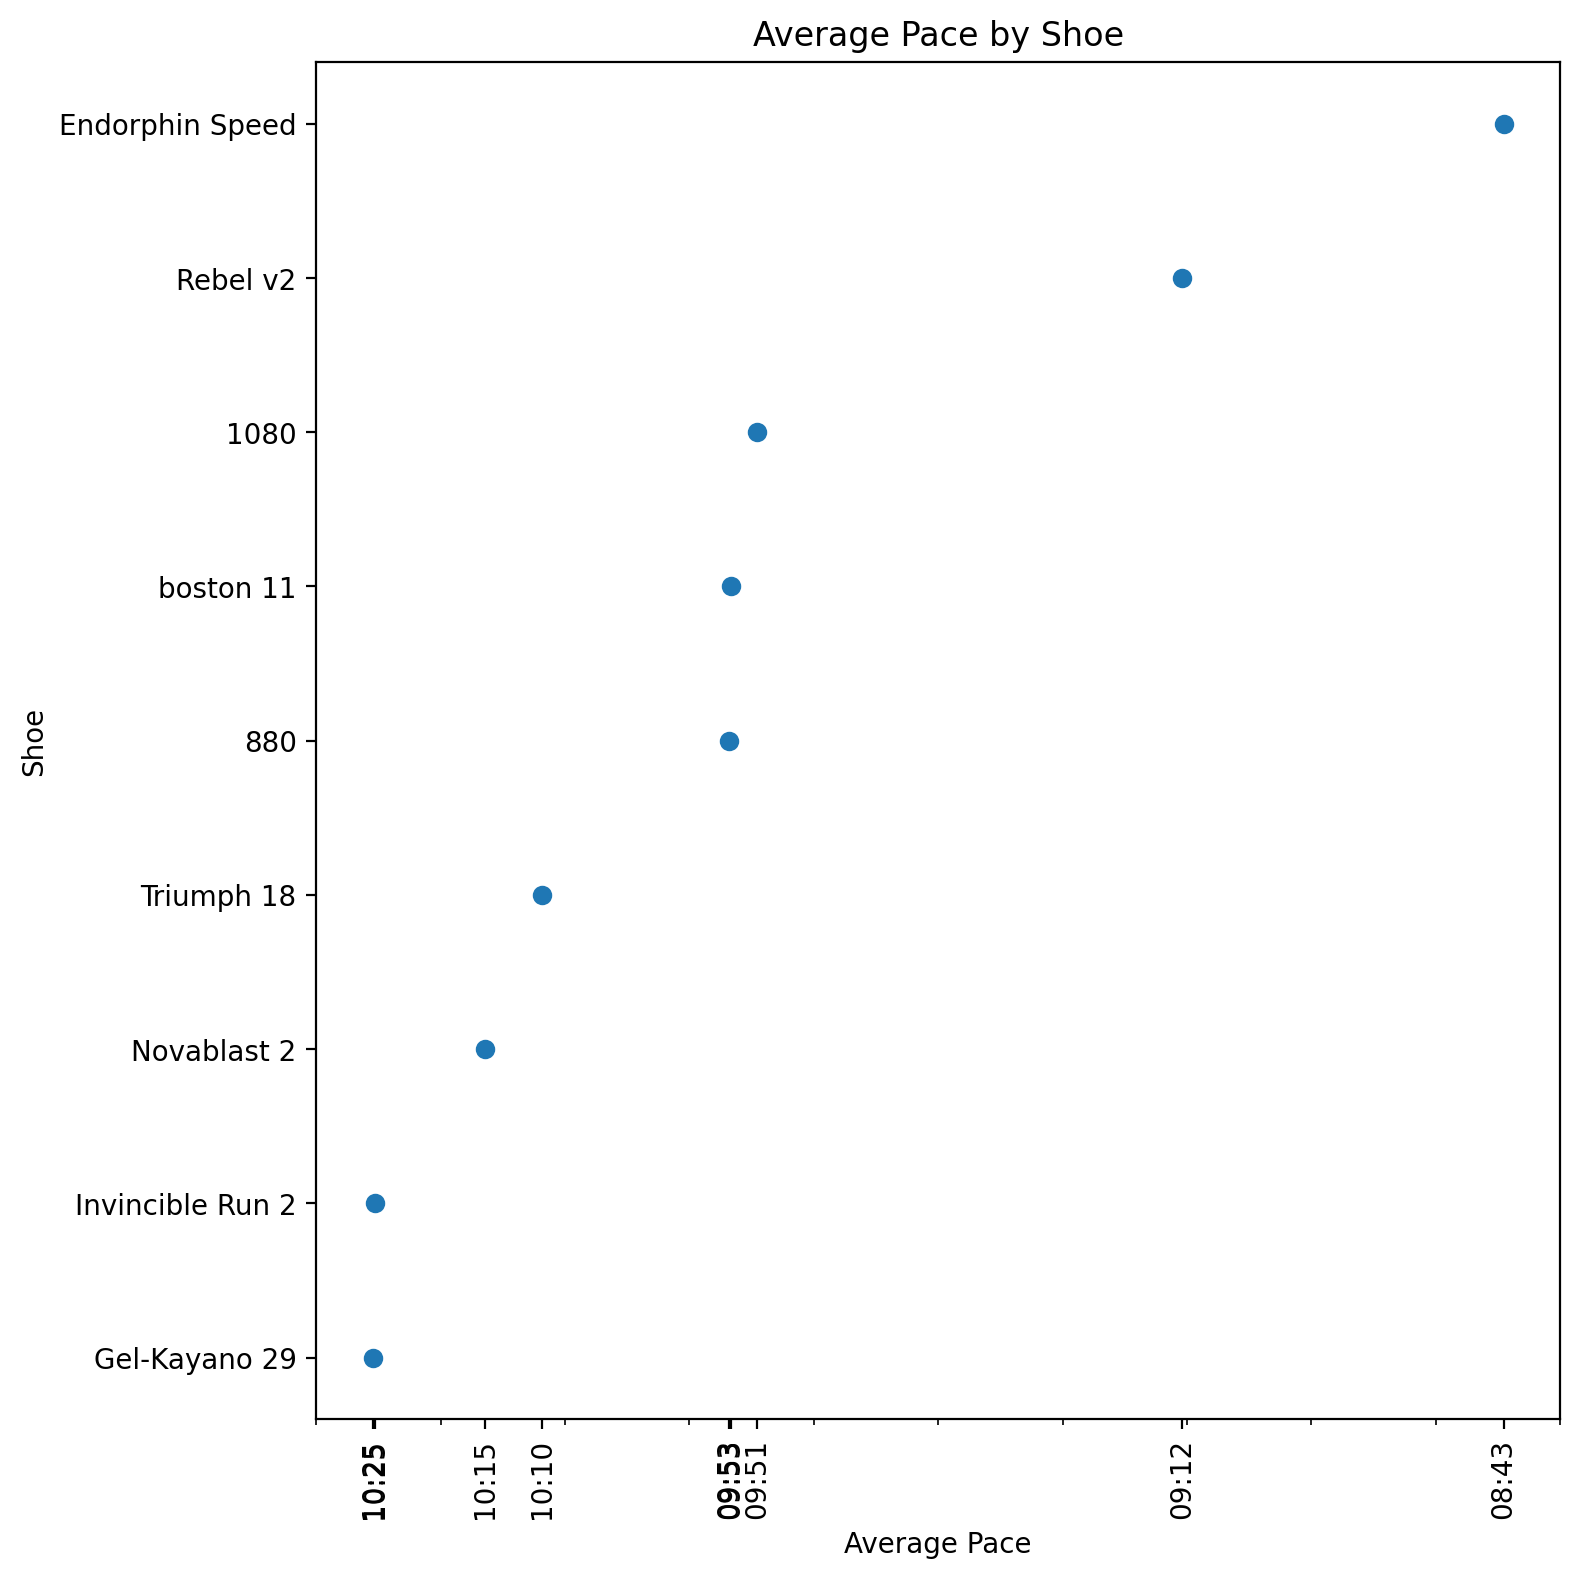
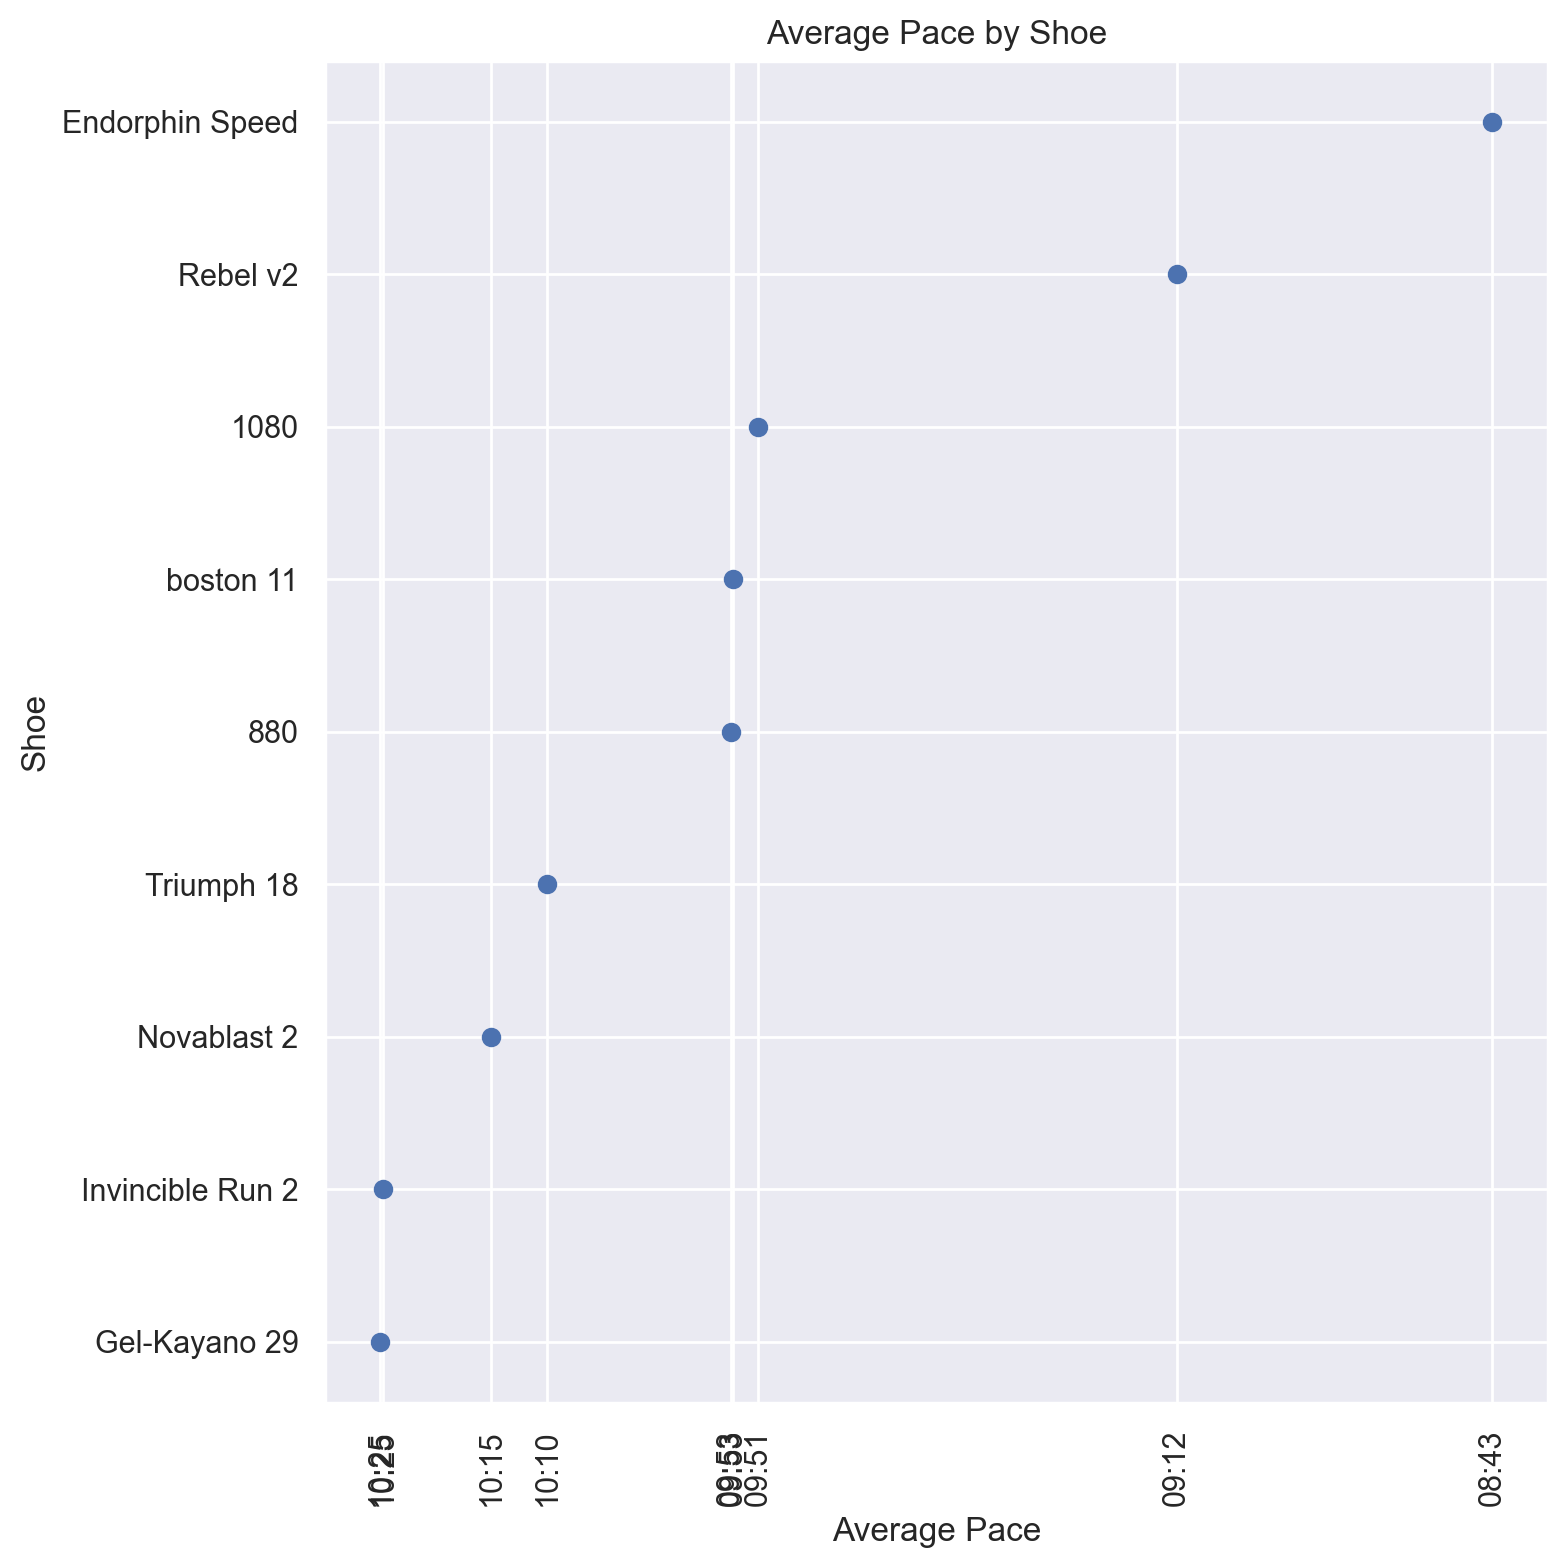
Added Seaborn styling

diff --git a/main.py b/main.py
@@ -3,10 +3,12 @@ import matplotlib.ticker as plticker
 import pandas as pd
 import requests
 import urllib3
+import seaborn as sns
 from pandas import json_normalize
 
 import login as login
 
+sns.set_theme()
 urllib3.disable_warnings(urllib3.exceptions.InsecureRequestWarning)
 
 auth_url = 'https://www.strava.com/oauth/token'
@@ -69,6 +71,7 @@ def autopct_format(values):
 
 # call the function to loop through our strava pages and set the starting page at 1
 my_dataset = loop_through_pages(1)
+# Filter out any activities that aren't runs.
 my_cleaned_dataset = []
 for activities in my_dataset:
     if activities['type'] == 'Run':
